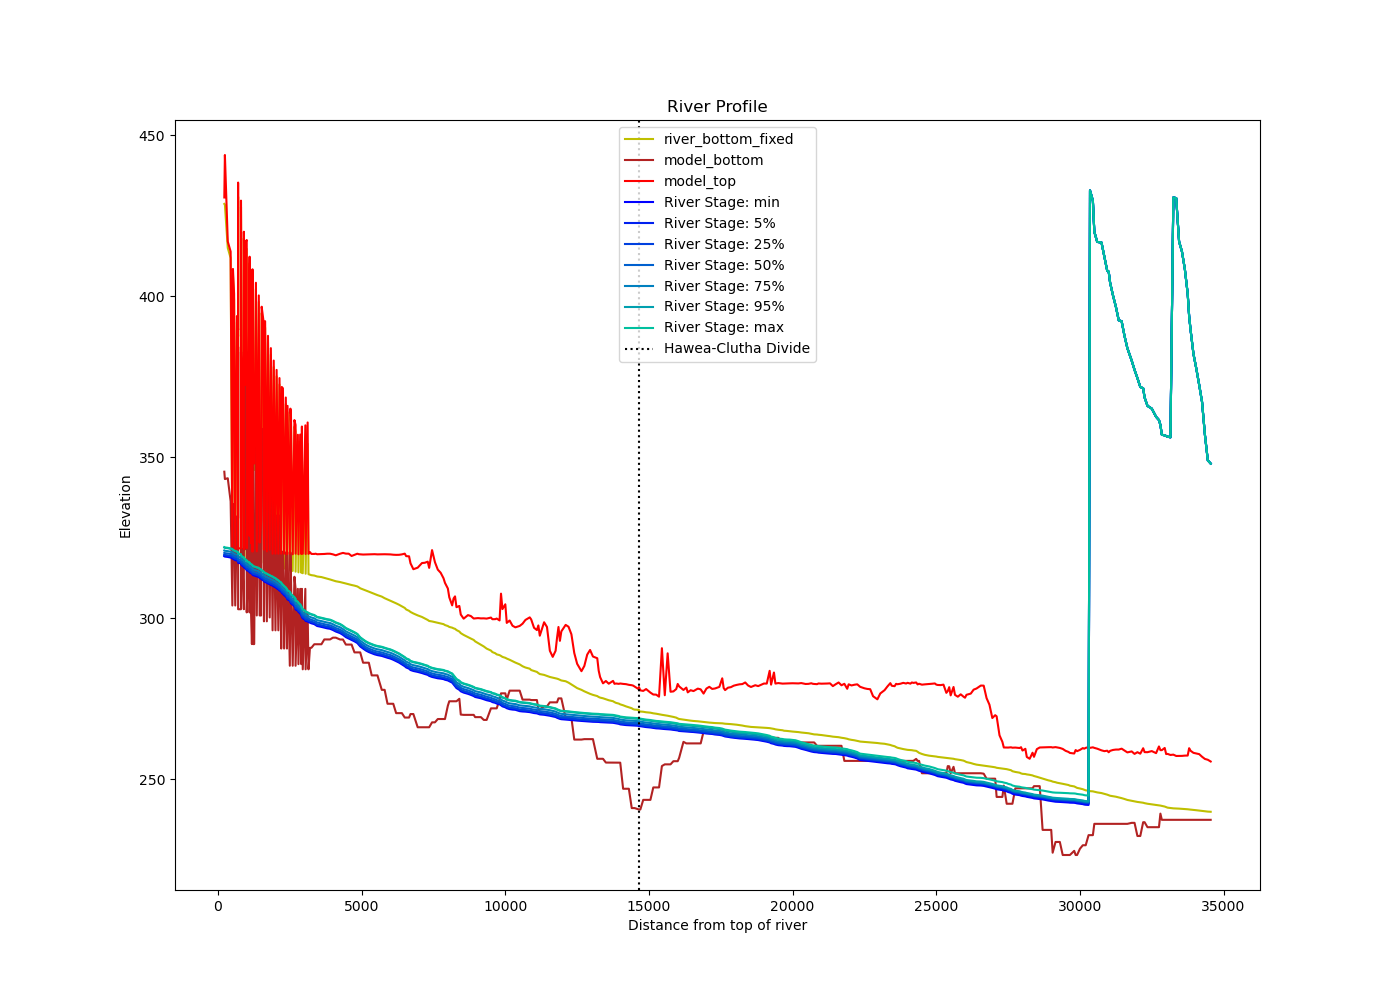
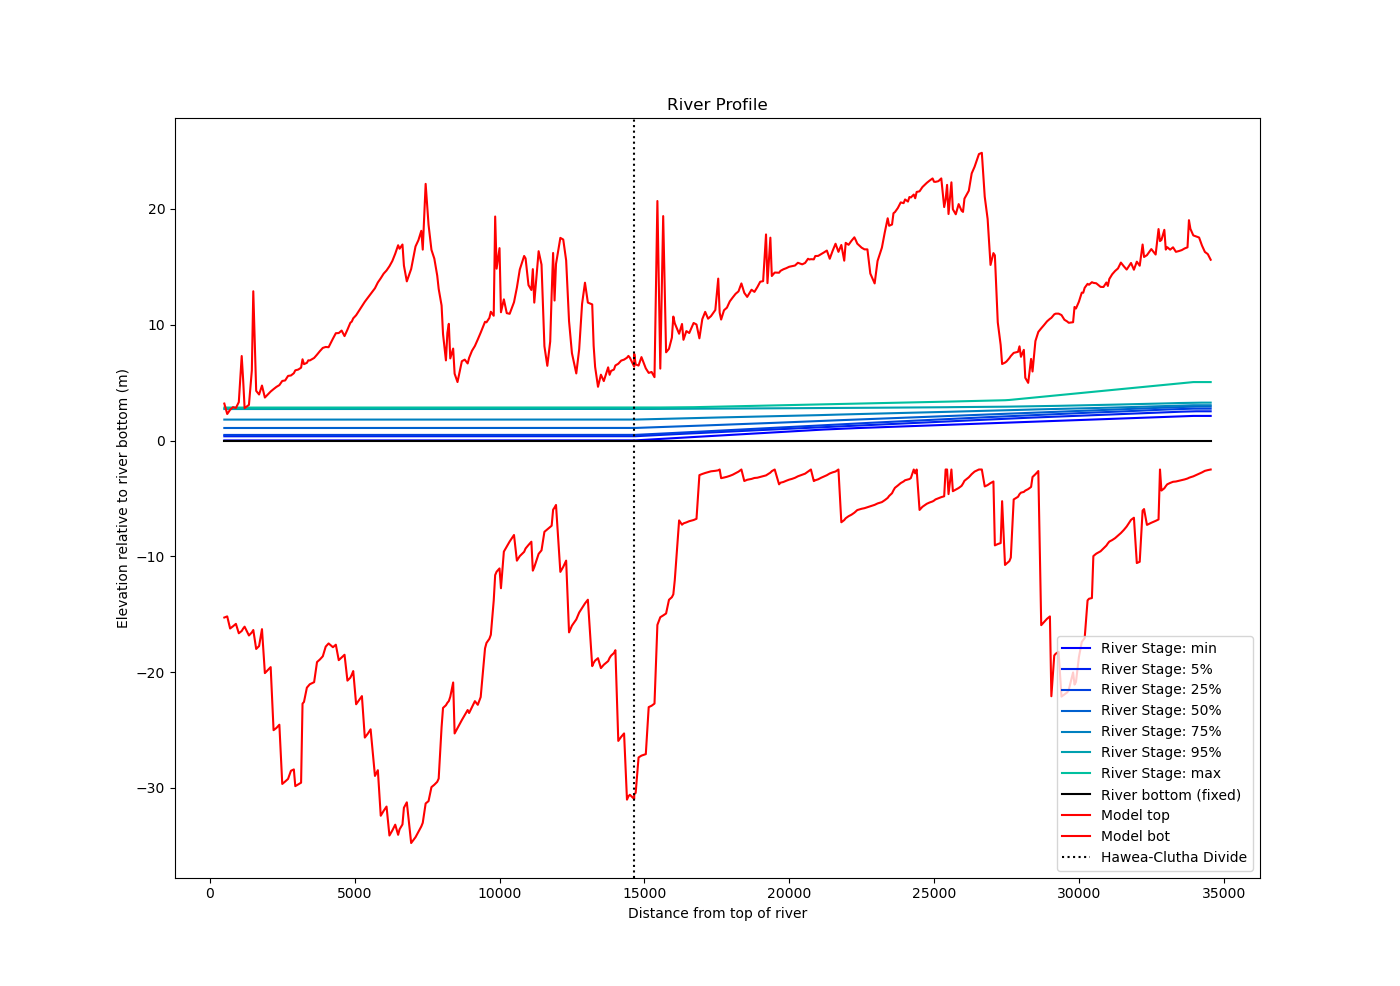
start working on model build

diff --git a/optimisation/pre_optimisation_overview.py b/optimisation/pre_optimisation_overview.py
@@ -216,6 +216,33 @@ def plot_all_spd(save=False):
         outdir.mkdir(exist_ok=True)
     else:
         outdir = FakePath()
+    # river height and stage data
+    plt_stg_data = get_river_stage_data(None, None).dropna().describe(percentiles=[0.05, 0.25, 0.5, 0.75, 0.95])
+    k_cs = ['min', '5%', '25%', '50%', '75%', '95%', 'max', ]
+    colors = get_colors(k_cs, cmap_name='winter')
+    temp_data = get_river_loc_data()
+    temp_data = temp_data.loc[temp_data.rname.isin(['clutha', 'hawea']), :]
+    tops = smt.get_tops()[0]
+    bottoms = smt.get_bottoms()[-1]
+    temp_data.loc[:, 'model_top'] = tops[temp_data.loc[:, 'i'], temp_data.loc[:, 'j']]
+    temp_data.loc[:, 'model_bot'] = bottoms[temp_data.loc[:, 'i'], temp_data.loc[:, 'j']]
+    hawea_clutha_divide = temp_data.loc[temp_data.rname == 'hawea', 'dist'].max()
+    temp_data.loc[temp_data.rname == 'clutha', 'dist'] += hawea_clutha_divide
+    temp_data.sort_values('dist', inplace=True)
+    fig, ax = plt.subplots(figsize=(14, 10))
+    ax.set_title('River Profile')
+    for k, c in zip(k_cs, colors):
+        ax.plot(temp_data.dist, plt_stg_data.loc[ k, temp_data.index].values.transpose() - temp_data.rbot,
+                c=c, label=f'River Stage: {k}')
+    ax.plot(temp_data.dist, temp_data.rbot - temp_data.rbot, c='k', label='River bottom (fixed)')
+    ax.plot(temp_data.dist, temp_data.model_top - temp_data.rbot, c='r', label='Model top')
+    ax.plot(temp_data.dist, temp_data.model_bot - temp_data.rbot, c='r', label='Model bot')
+    ax.axvline(hawea_clutha_divide, ls=':', c='k', label='Hawea-Clutha Divide')
+    ax.set_ylabel('Elevation relative to river bottom (m)')
+    ax.set_xlabel('Distance from top of river')
+    ax.legend()
+    if save:
+        fig.savefig(outdir.joinpath(f'River_profile{extension}'))
     # well boundary conditions
     well_data = get_well_data(tdis, hill_param=get_hillslope_multiplier(True), race_param=get_race_multiplier(True),
                               return_unique_spd=True)
@@ -242,31 +269,6 @@ def plot_all_spd(save=False):
              func=last, key='stage', title='last river cell stage',
              outpath=outdir.joinpath(f'riv_last_cell_time{extension}'))
 
-    # river height and stage data
-    plt_stg_data = get_river_stage_data(None, None).dropna().describe(percentiles=[0.05, 0.25, 0.5, 0.75, 0.95])
-    k_cs = ['min', '5%', '25%', '50%', '75%', '95%', 'max', ]
-    colors = get_colors(k_cs, cmap_name='winter')
-    temp_data = get_river_loc_data()
-    tops = smt.get_tops()[0]
-    bottoms = smt.get_bottoms()[-1]
-    temp_data.loc[:, 'model_top'] = tops[temp_data.loc[:, 'i'], temp_data.loc[:, 'j']]
-    temp_data.loc[:, 'model_bot'] = bottoms[temp_data.loc[:, 'i'], temp_data.loc[:, 'j']]
-    hawea_clutha_divide = temp_data.loc[temp_data.rname == 'hawea', 'dist'].max()
-    temp_data.loc[temp_data.rname == 'clutha', 'dist'] += hawea_clutha_divide
-    temp_data.sort_values('dist', inplace=True)
-    fig, ax = plt.subplots(figsize=(14, 10))
-    ax.set_title('River Profile')
-    ax.plot(temp_data.dist, temp_data.rbot, c='y', label='river_bottom_fixed')
-    ax.plot(temp_data.dist, temp_data.model_bot, c='firebrick', label='model_bottom')
-    ax.plot(temp_data.dist, temp_data.model_top, c='r', label='model_top')
-    for k, c in zip(k_cs, colors):
-        ax.plot(temp_data.dist, plt_stg_data.loc[k].values.transpose(), c=c, label=f'River Stage: {k}')
-    ax.axvline(hawea_clutha_divide, ls=':', c='k', label='Hawea-Clutha Divide')
-    ax.set_ylabel('Elevation')
-    ax.set_xlabel('Distance from top of river')
-    ax.legend()
-    if save:
-        fig.savefig(outdir.joinpath(f'River_profile{extension}'))
 
     # monthly stage data
     # look at stage through time at our locations( which are???)
@@ -757,6 +759,7 @@ if __name__ == '__main__':
             raise ValueError('nope')
 
         save_path.mkdir(exist_ok=True, parents=True)
+        plot_all_spd(True)
 
         # checked and finished, but not saved
         make_all_preopt(save)

diff --git a/model_build/supporting_data_analysis/river_data.py b/model_build/supporting_data_analysis/river_data.py
@@ -7,7 +7,7 @@ import pandas as pd
 import matplotlib.pyplot as plt
 from model_build.utils import select_resample, get_colors
 from model_build.project_model_tools import smt, _river_locs, get_lake_array
-from project_base import base_model_build_data_dir, processed_model_build_data_dir
+from project_base import base_model_build_data_dir, processed_model_build_data_dir, proj_root
 from model_build.supporting_data_analysis.hillside_inflows import get_hillside_flows
 
 default_recalc = False
@@ -323,23 +323,29 @@ def data_checks():
     bottoms = smt.get_bottoms()[0]
     river_locs.loc[:, 'model_top'] = tops[river_locs.loc[:, 'i'], river_locs.loc[:, 'j']]
     river_locs.loc[:, 'model_bot'] = bottoms[river_locs.loc[:, 'i'], river_locs.loc[:, 'j']]
-    for r in ['clutha', 'hawea', 'both']:
-        if r == 'both':
+    for r in ['clutha', 'hawea', 'Hawea & Clutha rivers']:
+        if r == 'Hawea & Clutha rivers':
             temp_data = river_locs.loc[np.in1d(river_locs.rname, ['hawea', 'clutha'])].copy(deep=True)
             temp_data.loc[temp_data.rname == 'clutha', 'dist'] += temp_data.loc[
                 temp_data.rname == 'hawea', 'dist'].max()
         else:
             temp_data = river_locs.loc[river_locs.rname == r]
         temp_data.sort_values('dist', inplace=True)
-        fig, ax = plt.subplots()
+        fig, ax = plt.subplots(figsize=(10, 8))
         ax.set_title(r)
         ax.plot(temp_data.dist, temp_data.rbot_raw, c='b', label='river_bottom_raw')
         ax.plot(temp_data.dist, temp_data.rbot, c='y', label='river_bottom_fixed')
         ax.plot(temp_data.dist, temp_data.model_bot, c='k', label='model_bottom')
         ax.plot(temp_data.dist, temp_data.model_top, c='r', label='model_top')
-        ax.set_ylabel('elevation')
-        ax.set_xlabel('distance from top of river')
+        if r == 'Hawea & Clutha rivers':
+            ax.axvline(temp_data.loc[temp_data.rname == 'hawea', 'dist'].max(), ls=':', c='k',
+                       label='Hawea-Clutha divide')
+        ax.set_ylabel('Elevation')
+        ax.set_xlabel('Distance from top of river')
         ax.legend()
+        if r == 'Hawea & Clutha rivers':
+            fig.tight_layout()
+            fig.savefig(proj_root.joinpath('support_figures', 'river_top_bot.png'))
     # look at stage through time at our locations( which are???)
     hawea_data = pd.read_csv(base_model_build_data_dir.joinpath('Lake_Hawea.csv'))
     print(hawea_data.describe())
@@ -402,8 +408,8 @@ def data_checks():
 
 
 if __name__ == '__main__':
+    data_checks()
     t = get_river_loc_data(True)
     t = get_river_flow_data(None, None)
     t = get_river_stage_data(None, None, recalc=True)
     _print_flowlengths()
-    data_checks()

diff --git a/model_build/README.rst b/model_build/README.rst
@@ -1,0 +1,181 @@
+Hawea Transient groundwater model (Hawea Model) build methods and results
+############################################################################
+
+.. figure:: support_figures/domain.png  # todo make a good figure with all boundary conditions
+   :width: 600
+   :align: center
+
+    test caption
+
+
+:Author:  Matt Dumont
+:Date:  2021-11-02
+:Version:  1.0.0
+:Status:  Draft
+:KSL project: Z22031HAW_hawea-model
+:Purpose: This document provides the methodology and results for the model build process
+
+
+Index
+=====
+.. contents:: Table of Contents
+
+
+
+Module Index
+============
+# todo copy from base readme
+-  `README.rst <model_build/README.rst>`_: this document
+-  `base_data <model_build/base_data>`_: raw input data for the model build
+-  `processed_input_data <model_build/processed_input_data>`_: processed data for the model build that was built by the scripts in this folder from the raw data in the base_data folder
+-  `project_model_tools.py <model_build/project_model_tools.py>`_: a script to define the model tools instance, and the model structure
+-  `get_boundary_condition_data.py <model_build/get_boundary_condition_data.py>`_: a script to get the boundary condition data
+-  `supporting_data_analysis <model_build/supporting_data_analysis>`_: scripts to support creating the boundary condition data and structure
+    -  `all_wells.py <model_build/supporting_data_analysis/all_wells.py>`_: a script to get all the well location data
+    -  `base_concept_diagram.py <model_build/supporting_data_analysis/base_concept_diagram.py>`_: a script to build a base concept diagram of the 3d model structure
+    -  `compare_met_era5land.py <model_build/supporting_data_analysis/compare_met_era5land.py>`_: compare precip and PET between the available met station and the ERA5 land data
+    -  `explore_structure.py <model_build/supporting_data_analysis/explore_structure.py>`_:
+    -  `get_era_5_land.py <model_build/supporting_data_analysis/get_era_5_land.py>`_: script to get ERA5-land data
+    -  `get_pumping_data.py <model_build/supporting_data_analysis/get_pumping_data.py>`_: get and process historical pumping data
+    -  `hillside_inflows.py <model_build/supporting_data_analysis/hillside_inflows.py>`_: model and process estimates from the hillside inflows
+    -  `irrigation_race_losses.py <model_build/supporting_data_analysis/irrigation_race_losses.py>`_:  get and process the historical race loss data
+    -  `lake_data.py <model_build/supporting_data_analysis/lake_data.py>`_: get and process the historical lake data
+    -  `map_flowmeter_to_wells.py <model_build/supporting_data_analysis/map_flowmeter_to_wells.py>`_: a process to map the flowmeter data to the most likely well
+    -  `plot_borelogs.py <model_build/supporting_data_analysis/plot_borelogs.py>`_:  a process to plot the borelogs in the model
+    -  `recharge_model.py <model_build/supporting_data_analysis/recharge_model.py>`_: develop and create LSR estimates from met and ERA5-land data
+    -  `river_data.py <model_build/supporting_data_analysis/river_data.py>`_: : a process to get and process the river data
+-  `modflow_model.py <model_build/modflow_model.py>`_: a script to build a modflow model instance
+-  `utils.py <model_build/utils.py>`_: a script to define some utility functions
+-  `zones.py <model_build/zones.py>`_: a script to define indicative model zones
+
+Model boundaries
+================
+
+The model domain (see figure below) was initially defined to include the following aquifers:
+
+- **The main Hawea flat aquifer** stretching from Lake Hawea in the North to the base of the High terrace in the South. This aquifer is bounded by the Hawea river on the West and the Grandview Ridge on the East
+- **The High terrace aquifer** stretching from the base of the High terrace in the North to Clutha River in the South This aquifer is also bounded by the Hawea river on the West and the Grandview Ridge on the East
+- **Aquifers near the Hawea river** including Te Awa, Maungawera Flat, and river adjacent aquifers to the south of Maungawera flat and east of the High terrace.
+- **The Maungawera Valley aquifer** including the Maungawera valley aquifer from the approximate Hawea River/ Lake Wanaka flow divide in the Northwest to the Maungawera Flat Aquifer
+- **The Sandy Point Aquifer** which is to the East of the Clutha river to the South of the High terrace aquifer.  This aquifer is also bounded by the Grandview Ridge on the East
+
+During the model build the steep topography of the Sandy Point Aquifer caused model convergence issues.
+The Sandy Point has minimal data available (one historical groundwater measurement) Therefore we resolved the convergence
+issue by removing the Sandy Point Aquifer from the model domain. We still produced estimates of Land surface recharge (LSR) and
+Hillside inflows to this aquifer, which were used to inform groundwater allocation decisions.
+
+The boundaries of the model domain were all defined by no-flow boundary conditions. In addition at the Lake Hawea Dam,
+Camp Hill, and Cameron Hill bedrock is exposed. Therefore these outcrops were also defined as no-flow boundaries.
+Finally, the Camp Hill Medial Moraine, located between Te Awa and the Maungawera Flat aquifers, is comprised of poorly sorted
+and unworked moraine sediments. While there are a few domestic supply bores in this area, the groundwater system is
+likely minimal, particularly in comparison with the other outwash dominated aquifers.  We therefore chose to defined this area
+as a no-flow boundary.
+
+
+.. figure:: support_figures/domain.png  # todo make a good figure with all boundary conditions, the aquifers and ID the no flow inclusions
+   :width: 600
+   :align: center
+
+
+Model Structure
+===============
+
+2d model structure
+------------------
+
+# todo top, bottom definitino
+
+3d model structure
+------------------
+
+
+Model boundary conditions
+=========================
+
+Land surface recharge (LSR)
+---------------------------
+
+LSR model
+^^^
+
+LSR model inputs -> Precip and PET
+^^^^
+
+ERA5-land and met station data
+
+
+Correcting ERA5-land data
+^^^^
+
+LSR model inputs -> Irrigated area and efficiency
+^^^^
+
+Correcting ERA5-land based LSR
+^^^
+
+Generating a Long record of LSR
+^^^^^^
+
+Groundwater Abstraction (pumping)
+----------------------------------
+
+Major Rivers (Hawea river and Clutha River)
+-------------------------------------------
+The Hawea and Clutha rivers were included in the model using `the stream boundary condition package. <https://water.usgs.gov/nrp/gwsoftware/modflow2000/MFDOC/str.html>`_.
+The stream boundary condition package models both stream flow and surface-ground water interactions. While the
+Package allows for modelling of stream stage, for this model we specified the stream stage. The package requires the following inputs:
+
+- Stream location and river bed elevation
+- Stream stage
+- Stream flow (at the top segment of each stream)
+- `The stream bed conductance factor <https://water.usgs.gov/nrp/gwsoftware/modflow2000/MFDOC/frequently_asked_questions.html?anchor=conductance>`_
+
+We defined the stream location with a carefully drawn line along the river bed informed by a LiDAR dataset provided by Otago Regional Council.
+The raw river bed elevation was defined as the minimum LiDAR elevation in each river model cell.  This left a river profile that was
+not consistently decreasing downstream.  To correct this we used a rolling mean to define the river bed elevation.  Finally we inset the
+river bottom by 2.5 m so that the river bed elevation was always below the river stage.
+
+.. figure:: support_figures/river_top_bot.png
+   :width: 600
+   :align: center
+
+The stream bed conductance factor was a parameter in the model inversion.  See `the model parameterisation readme for more information <model_parameterisation/README.rst>`_
+The steam flow did not need to be particularly precise as the river would never come close to losing all of its water to the
+aquifer system.  Therefore we set the Hawea river flow to the the historical flow measured at Camp Hill.  The Clutha river
+flow was arbitrarily set to 10 * the Hawea river flow.  We prescribed the river stage for both the Hawea and Clutha rivers
+by interpolating historical river stage data at Camp Hill (Hawea River) and at a point on the Clutha River 200 m
+downstream of Luggate Confluence. The Clutha stage data did not cover the full historical record; therefore we used the
+ISO-weekly mean river stage for the missing data. The Hawea river stage data was temporally complete. To interpolate the
+river stage spatially we simply applied the stage measured at camphill relative to the river bed elevation to the river bed elevation
+in all other Hawea River model cells.  The same approach was used for the Clutha river; however where the Clutha river joined the
+Hawea river there was an offset. To avoid this offset causing model convergence issues we linearly interpolated the Stage
+at the end of the Hawea River to the stage on the Clutha River 200m downstream of Luggate Confluence.
+
+.. figure:: optimisation/pre_optimisation_plots_png/stress_period_data/River_profile.png
+   :scale: 50 %
+
+    test caption
+
+Lake Hawea
+----------
+
+Irrigation Supply Race Losses (race losses)
+-------------------------------------------
+
+Hillside stream inflows (hillside inflows)
+------------------------------------------
+
+Method to estimate hillside inflows
+^^^^^^^^^^^^^^^^^^^^^^^^^^^^^^^^^^^
+
+Large Hillside Inflows (Grandview and John Creek) implementation
+^^^^^^^^^
+
+Smaller Hillside inflows (other hillside inflows) implementation
+^^^^
+
+Model Zones
+===========
+
+References
+===========

diff --git a/README.rst b/README.rst
@@ -1,14 +1,16 @@
 Hawea Transient groundwater model (Hawea Model)
-===============================================
+################################################
+
+.. figure:: support_figures/domain.png
+   :width: 600
+   :align: center
+
 :Author:  Matt Dumont
 :Date:  2021-11-02
 :Version:  1.0.0
 :Status:  Draft
 :KSL project: Z22031HAW_hawea-model
-
-.. figure:: support_figures/domain.png
-   :width: 600
-   :align: center
+:Purpose: This document describes the Hawea Model repo
 
 
 The Hawea model domain; the inactive portions of the model are coloured grey. The model domain is a 3D model of the Hawea
@@ -113,7 +115,6 @@ If you have any questions please contact Matt Dumont (matt@komanawa.com)
     -  `modflow_model.py <model_build/modflow_model.py>`_: a script to build a modflow model instance
     -  `utils.py <model_build/utils.py>`_: a script to define some utility functions
     -  `zones.py <model_build/zones.py>`_: a script to define indicative model zones
-
 -  `model_parameterisation <model_parameterisation>`_:  model parameterisation and implementation
     -  `README.rst <model_parameterisation/README.rst>`_: a readme file for the model parameterisation
     -  `base_data <model_parameterisation/base_data>`_: raw input data for the model parameterisation
@@ -404,7 +405,7 @@ described below (working notes) for completeness.
 9.  Structure_v8
 
     -  From structure_v6a
-    -  todo increase initial conductivity (to 50, 100 and 70 was too
+    -  increase initial conductivity (to 50, 100 and 70 was too
        unstable)
     -  rch multiplier only by irrigated not irrigated bounds of
        multiplier 0.5-1.2
@@ -431,7 +432,7 @@ described below (working notes) for completeness.
     -  NE hillside area (done)
     -  Near clutha river (done)
     -  I think I need some more pilot points
-    -  Near pt 402 on camp hill moraine (move mangawera south?) (todo)
+    -  Near pt 402 on camp hill moraine (move mangawera south?) ()
        and another in the moraine (to interpolate with other river group
     -  To stop dry cells south of camp hill moraine
     -  Significant number in the hillslope area just off the bounds to
